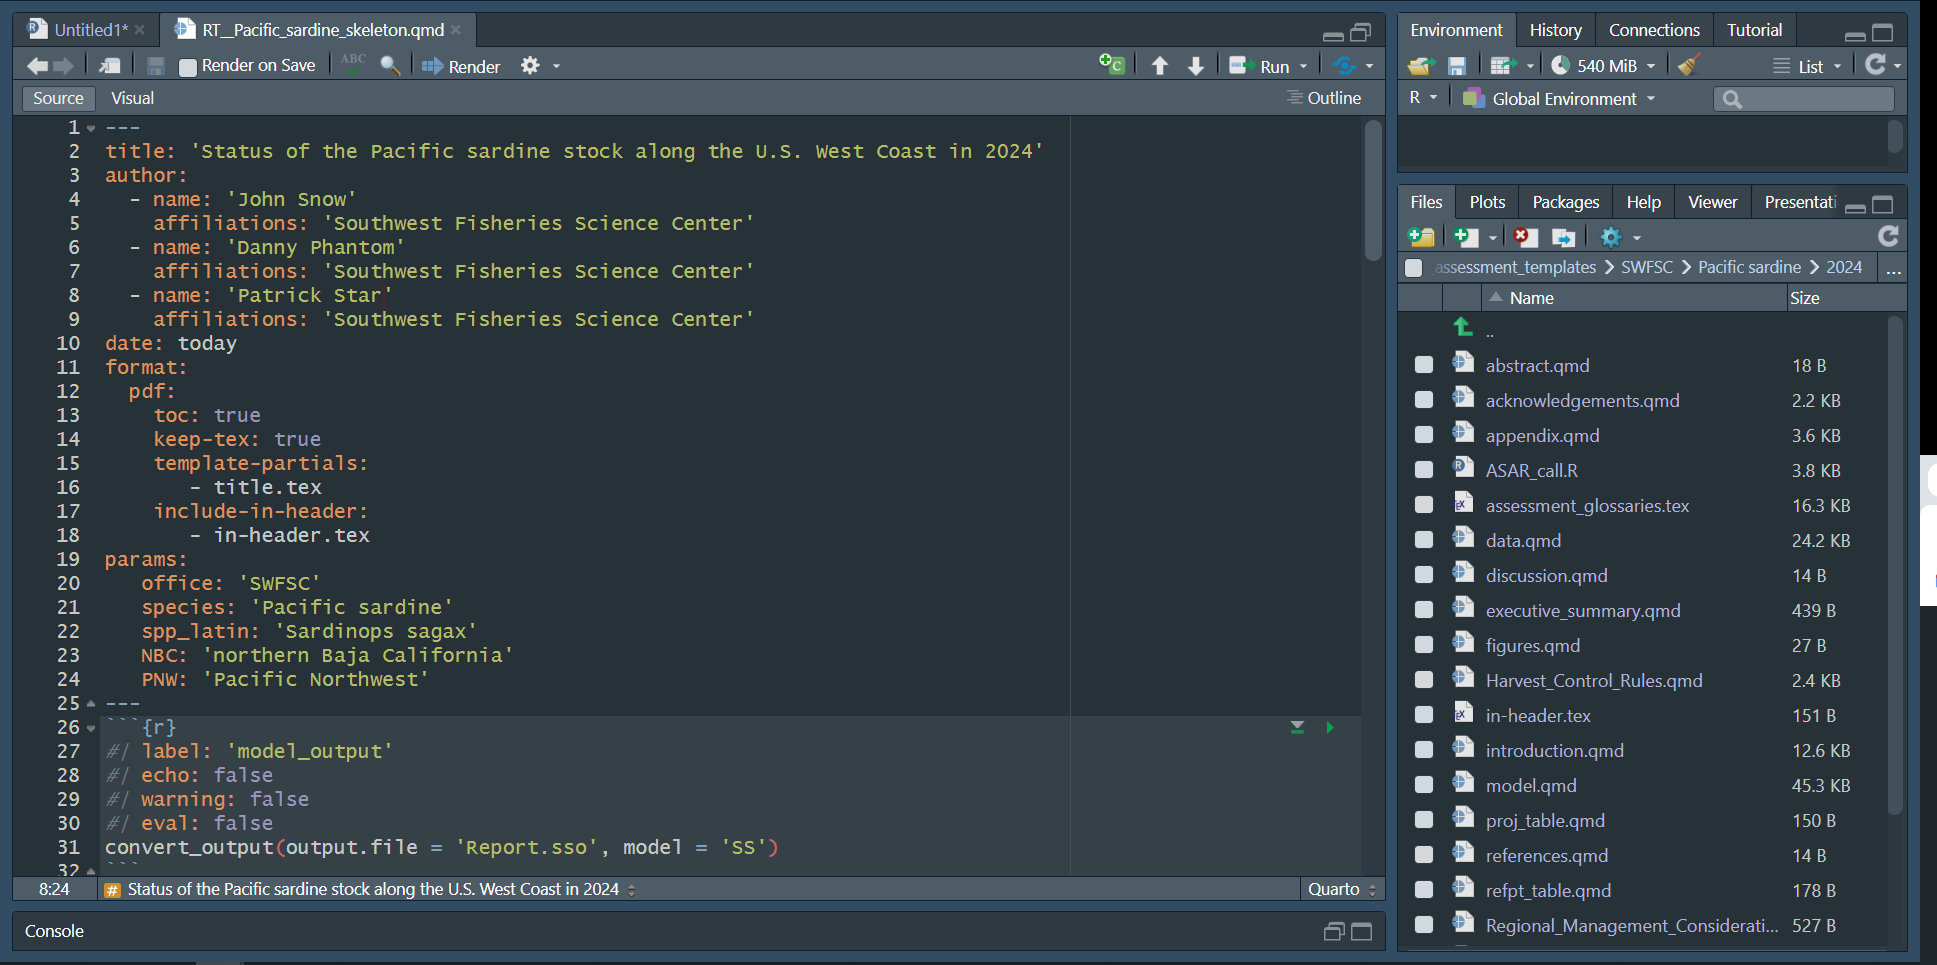
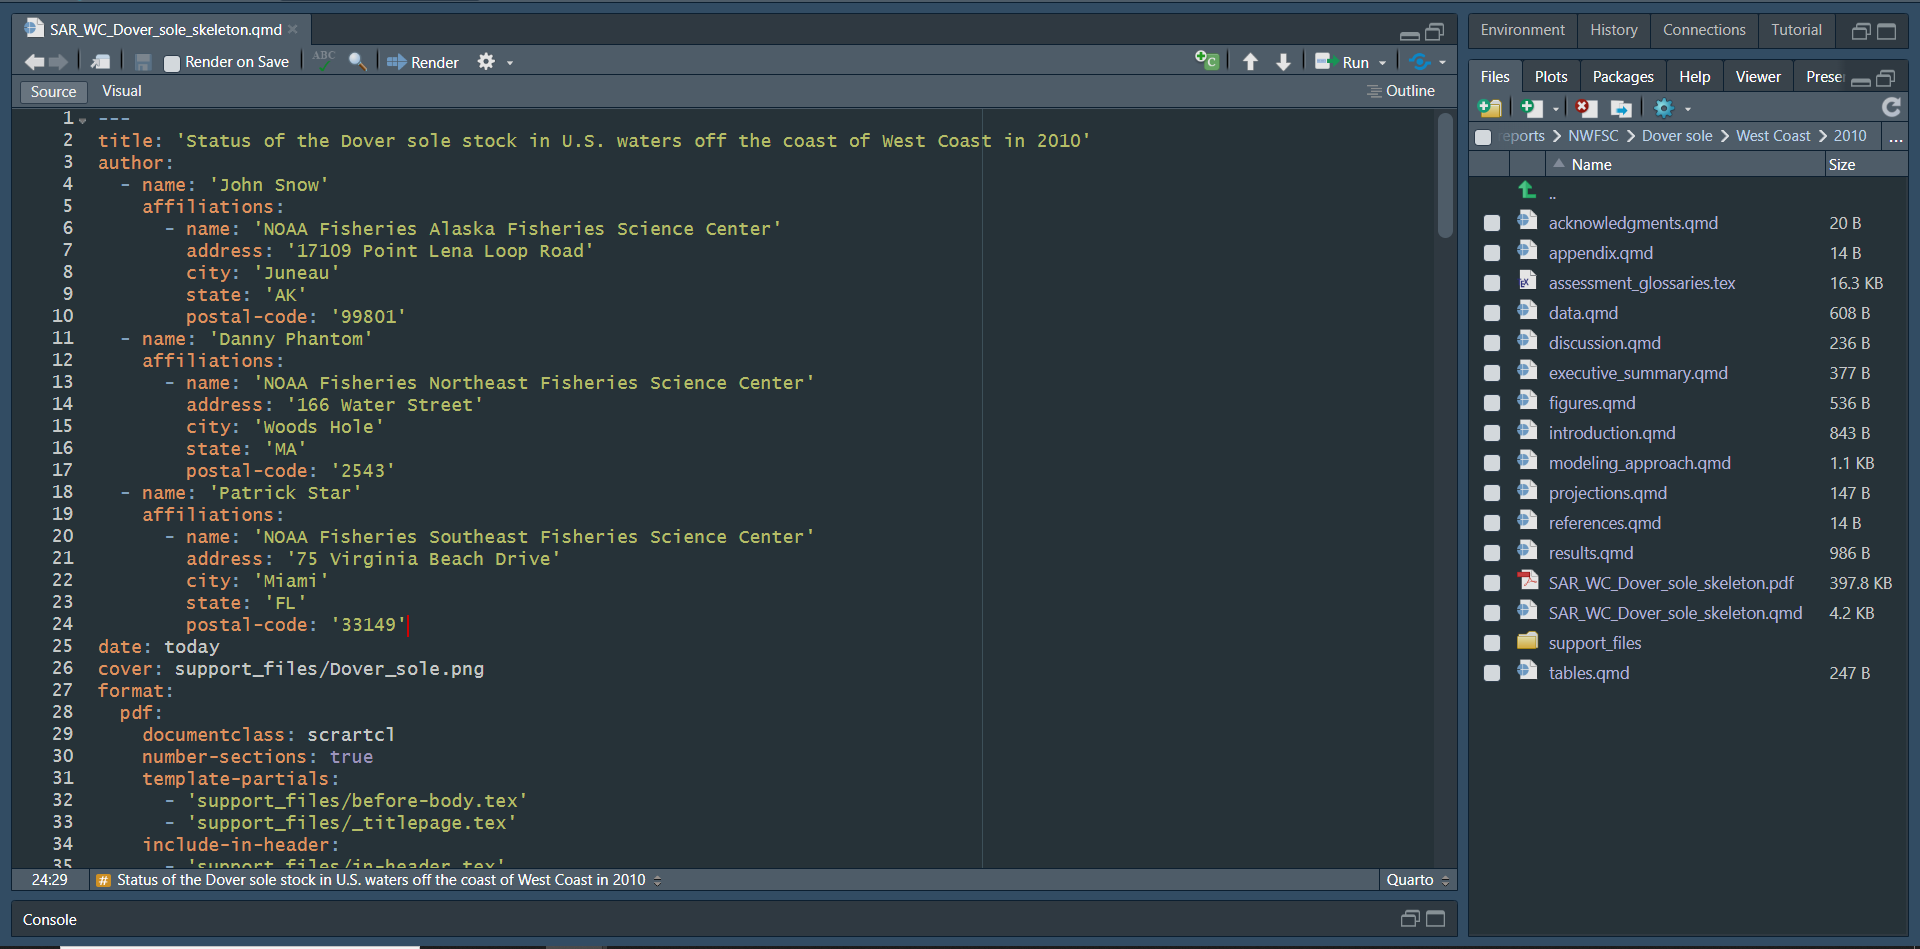
Update README to reflect example images

Changed region(s): [[0.0, 0.0, 1.0, 1.0], [0.2812, 0.9779, 0.3438, 1.0]]

diff --git a/README.md b/README.md
@@ -35,15 +35,16 @@ The following is a basic example to render a stock assessment report for a parti
 ASAR::create_template(
   new_template = TRUE,
   format = "pdf",
-  office = "SWFSC",
-  species = "Pacific sardine",
-  spp_latin = "Sardinops sagax",
-  year = 2024,
+  office = "NWFSC",
+  species = "Dover sole",
+  spp_latin = "Pomatomus saltatrix",
+  year = 2010,
   author = c("John Snow", "Danny Phantom", "Patrick Star"),
   include_affiliation = TRUE,
   parameters = FALSE,
-  model_results = "Report.SSO",
-  model = "SS"
+  resdir = "C:/Users/samantha.schiano/Documents/Stock Assessment Workflow/Dover Sole Example Files",
+  model_results = "Report.sso",
+  model = "SS3"
 )
 ```
 
